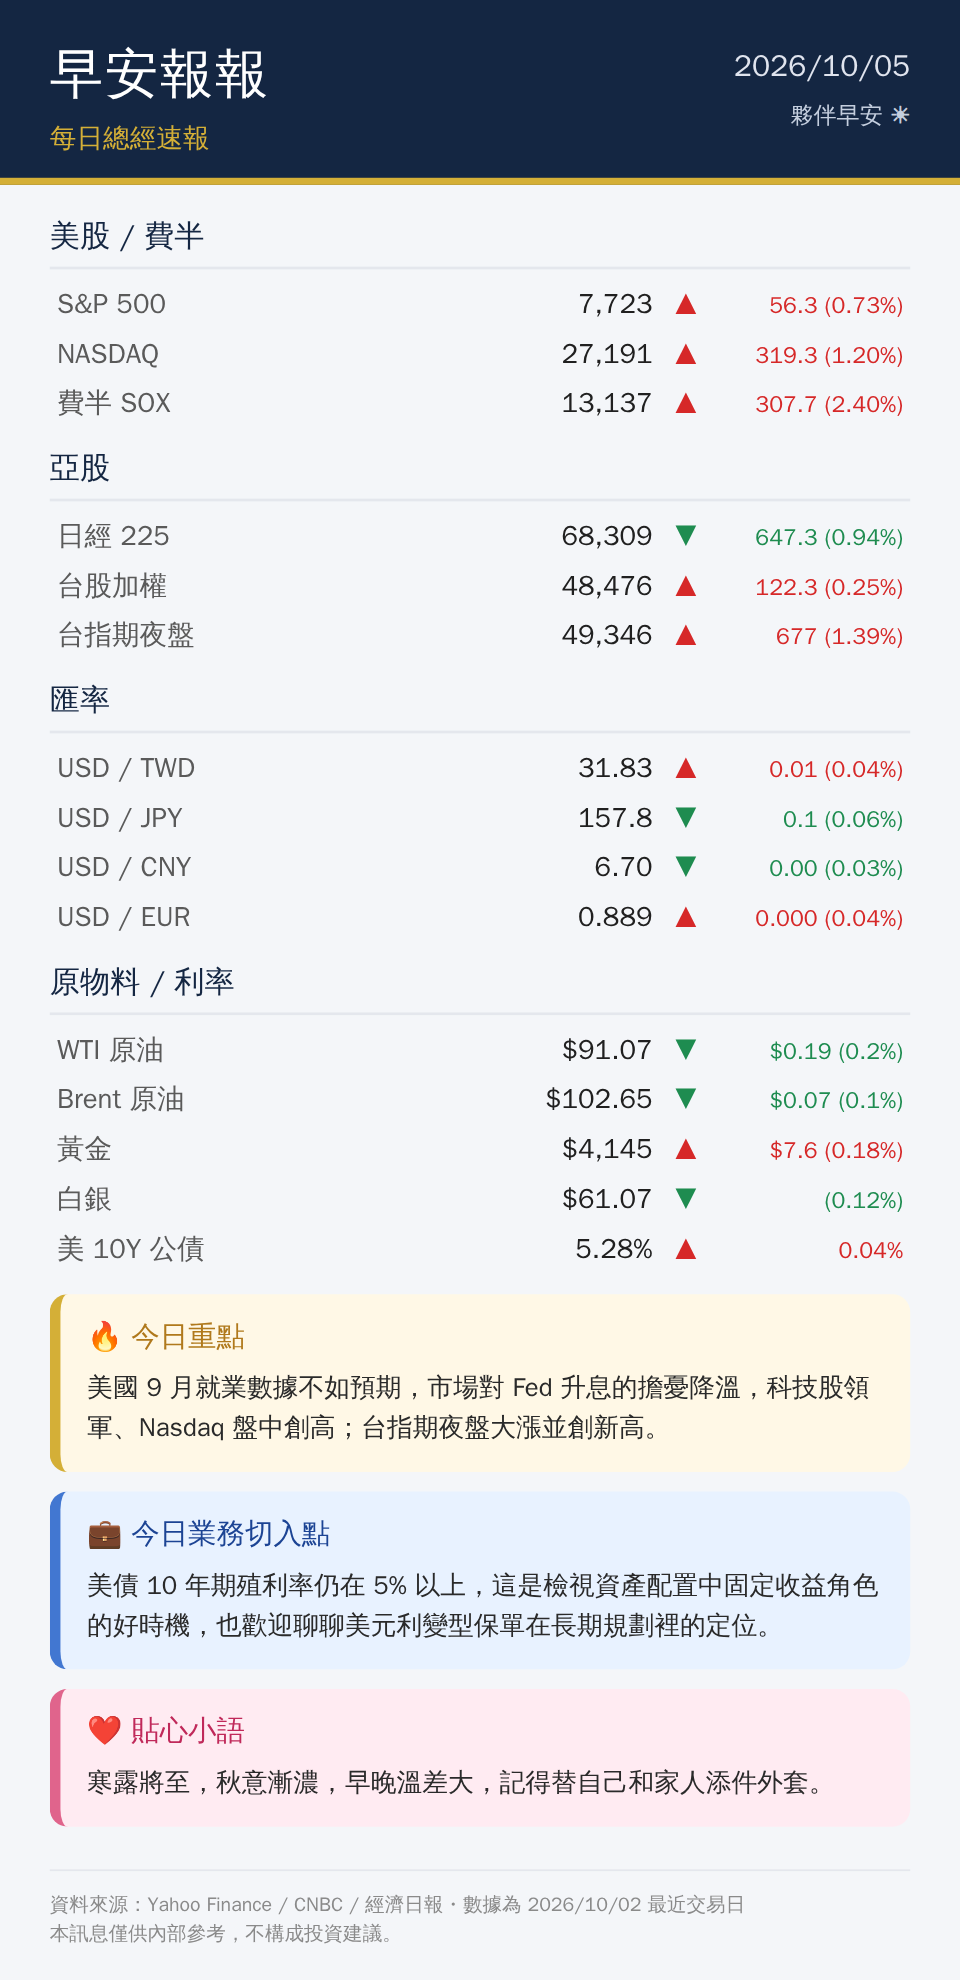
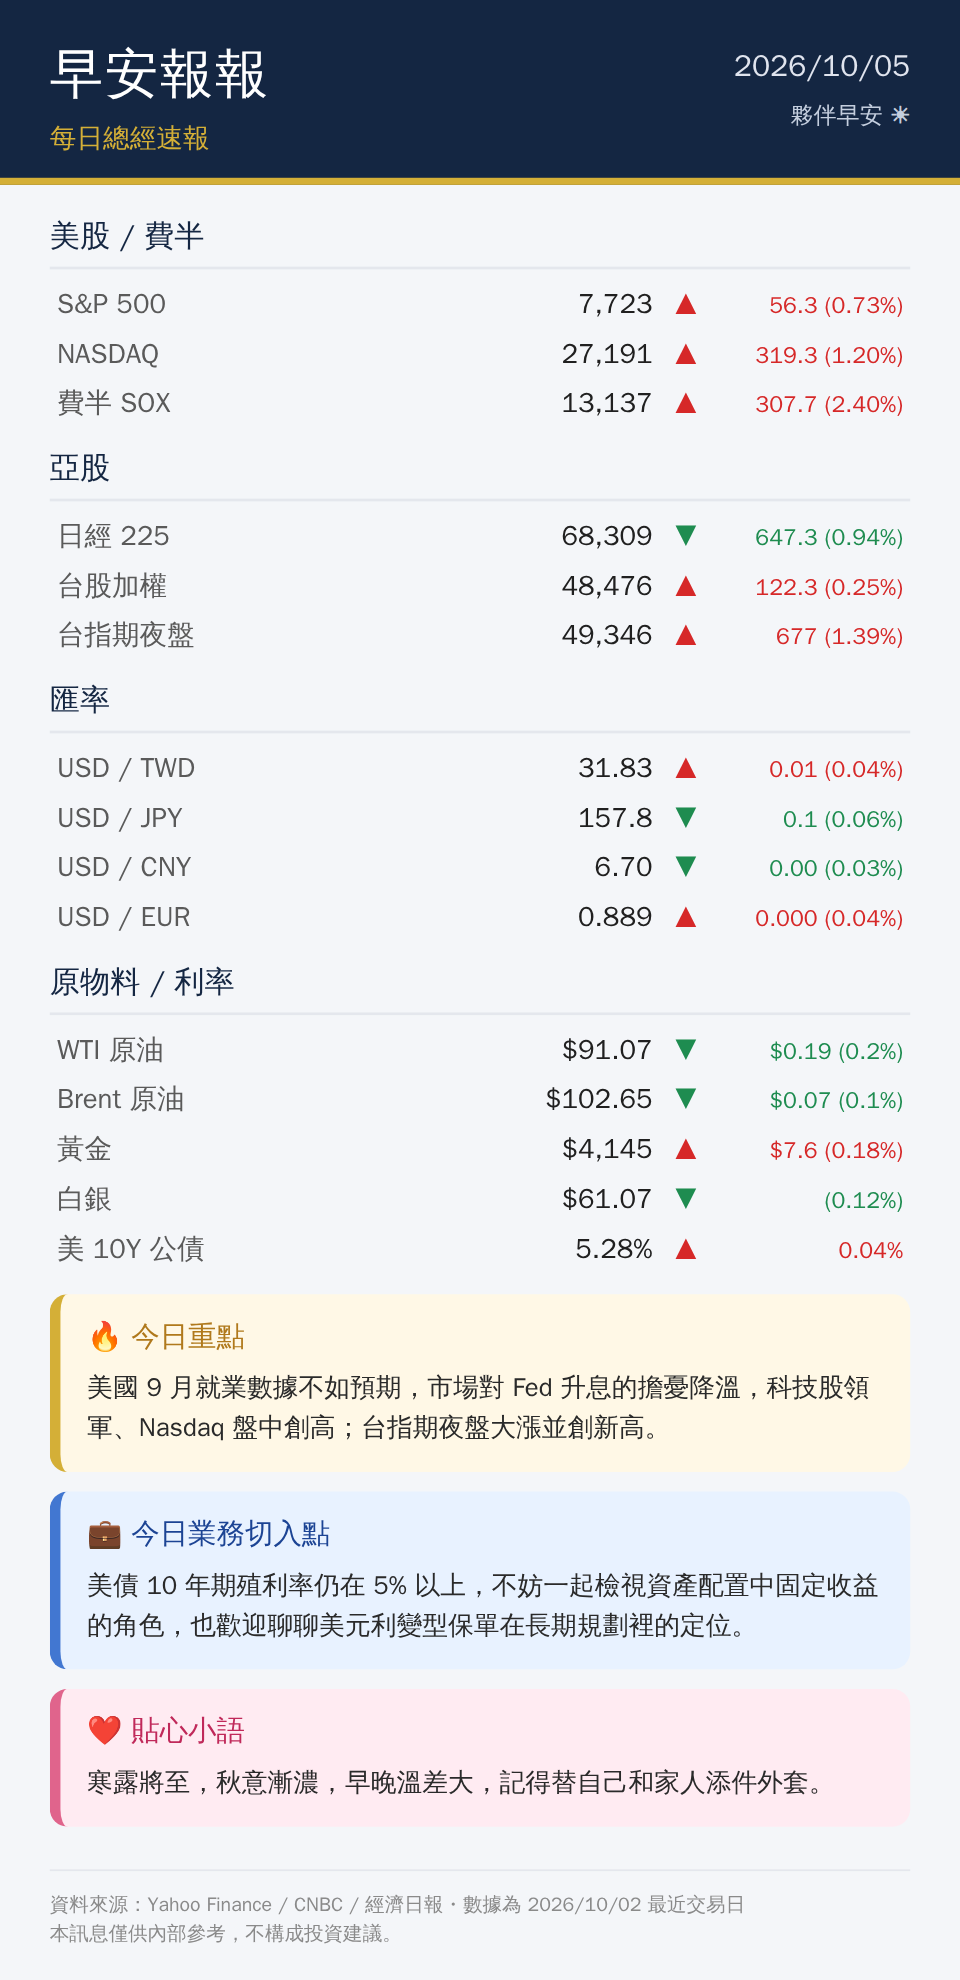
Refine business angle wording 2026-10-05
Claude-Session: https://claude.ai/code/session_01KgwL3zWtgwQcRyshWvawGz

Changed region(s): [[0.3438, 0.7702, 0.9062, 0.8318], [0.125, 0.801, 0.3125, 0.8318]]

diff --git a/reports/2026-10-05/card.html b/reports/2026-10-05/card.html
@@ -43,6 +43,6 @@
     <div class="brand-sub">每日總經速報</div>
     <div class="hdr-right"><div class="hdr-date">2026/10/05</div><div class="hdr-hi">夥伴早安 ☀</div></div>
   </div>
-  <div class="body"><div class="sec"><div class="sec-title">美股 / 費半</div><div class="row"><span class="label">S&amp;P 500</span><span class="val">7,723</span><span class="arr" style="color:#d62828">▲</span><span class="pct" style="color:#d62828">56.3 (0.73%)</span></div><div class="row"><span class="label">NASDAQ</span><span class="val">27,191</span><span class="arr" style="color:#d62828">▲</span><span class="pct" style="color:#d62828">319.3 (1.20%)</span></div><div class="row"><span class="label">費半 SOX</span><span class="val">13,137</span><span class="arr" style="color:#d62828">▲</span><span class="pct" style="color:#d62828">307.7 (2.40%)</span></div></div><div class="sec"><div class="sec-title">亞股</div><div class="row"><span class="label">日經 225</span><span class="val">68,309</span><span class="arr" style="color:#1e8c50">▼</span><span class="pct" style="color:#1e8c50">647.3 (0.94%)</span></div><div class="row"><span class="label">台股加權</span><span class="val">48,476</span><span class="arr" style="color:#d62828">▲</span><span class="pct" style="color:#d62828">122.3 (0.25%)</span></div><div class="row"><span class="label">台指期夜盤</span><span class="val">49,346</span><span class="arr" style="color:#d62828">▲</span><span class="pct" style="color:#d62828">677 (1.39%)</span></div></div><div class="sec"><div class="sec-title">匯率</div><div class="row"><span class="label">USD / TWD</span><span class="val">31.83</span><span class="arr" style="color:#d62828">▲</span><span class="pct" style="color:#d62828">0.01 (0.04%)</span></div><div class="row"><span class="label">USD / JPY</span><span class="val">157.8</span><span class="arr" style="color:#1e8c50">▼</span><span class="pct" style="color:#1e8c50">0.1 (0.06%)</span></div><div class="row"><span class="label">USD / CNY</span><span class="val">6.70</span><span class="arr" style="color:#1e8c50">▼</span><span class="pct" style="color:#1e8c50">0.00 (0.03%)</span></div><div class="row"><span class="label">USD / EUR</span><span class="val">0.889</span><span class="arr" style="color:#d62828">▲</span><span class="pct" style="color:#d62828">0.000 (0.04%)</span></div></div><div class="sec"><div class="sec-title">原物料 / 利率</div><div class="row"><span class="label">WTI 原油</span><span class="val">$91.07</span><span class="arr" style="color:#1e8c50">▼</span><span class="pct" style="color:#1e8c50">$0.19 (0.2%)</span></div><div class="row"><span class="label">Brent 原油</span><span class="val">$102.65</span><span class="arr" style="color:#1e8c50">▼</span><span class="pct" style="color:#1e8c50">$0.07 (0.1%)</span></div><div class="row"><span class="label">黃金</span><span class="val">$4,145</span><span class="arr" style="color:#d62828">▲</span><span class="pct" style="color:#d62828">$7.6 (0.18%)</span></div><div class="row"><span class="label">白銀</span><span class="val">$61.07</span><span class="arr" style="color:#1e8c50">▼</span><span class="pct" style="color:#1e8c50">(0.12%)</span></div><div class="row"><span class="label">美 10Y 公債</span><span class="val">5.28%</span><span class="arr" style="color:#d62828">▲</span><span class="pct" style="color:#d62828">0.04%</span></div></div><div class="box box-gold"><div class="box-title">🔥 今日重點</div><div class="box-body">美國 9 月就業數據不如預期，市場對 Fed 升息的擔憂降溫，科技股領軍、Nasdaq 盤中創高；台指期夜盤大漲並創新高。</div></div><div class="box box-blue"><div class="box-title">💼 今日業務切入點</div><div class="box-body">美債 10 年期殖利率仍在 5% 以上，這是檢視資產配置中固定收益角色的好時機，也歡迎聊聊美元利變型保單在長期規劃裡的定位。</div></div><div class="box box-pink"><div class="box-title">❤ 貼心小語</div><div class="box-body">寒露將至，秋意漸濃，早晚溫差大，記得替自己和家人添件外套。</div></div></div>
+  <div class="body"><div class="sec"><div class="sec-title">美股 / 費半</div><div class="row"><span class="label">S&amp;P 500</span><span class="val">7,723</span><span class="arr" style="color:#d62828">▲</span><span class="pct" style="color:#d62828">56.3 (0.73%)</span></div><div class="row"><span class="label">NASDAQ</span><span class="val">27,191</span><span class="arr" style="color:#d62828">▲</span><span class="pct" style="color:#d62828">319.3 (1.20%)</span></div><div class="row"><span class="label">費半 SOX</span><span class="val">13,137</span><span class="arr" style="color:#d62828">▲</span><span class="pct" style="color:#d62828">307.7 (2.40%)</span></div></div><div class="sec"><div class="sec-title">亞股</div><div class="row"><span class="label">日經 225</span><span class="val">68,309</span><span class="arr" style="color:#1e8c50">▼</span><span class="pct" style="color:#1e8c50">647.3 (0.94%)</span></div><div class="row"><span class="label">台股加權</span><span class="val">48,476</span><span class="arr" style="color:#d62828">▲</span><span class="pct" style="color:#d62828">122.3 (0.25%)</span></div><div class="row"><span class="label">台指期夜盤</span><span class="val">49,346</span><span class="arr" style="color:#d62828">▲</span><span class="pct" style="color:#d62828">677 (1.39%)</span></div></div><div class="sec"><div class="sec-title">匯率</div><div class="row"><span class="label">USD / TWD</span><span class="val">31.83</span><span class="arr" style="color:#d62828">▲</span><span class="pct" style="color:#d62828">0.01 (0.04%)</span></div><div class="row"><span class="label">USD / JPY</span><span class="val">157.8</span><span class="arr" style="color:#1e8c50">▼</span><span class="pct" style="color:#1e8c50">0.1 (0.06%)</span></div><div class="row"><span class="label">USD / CNY</span><span class="val">6.70</span><span class="arr" style="color:#1e8c50">▼</span><span class="pct" style="color:#1e8c50">0.00 (0.03%)</span></div><div class="row"><span class="label">USD / EUR</span><span class="val">0.889</span><span class="arr" style="color:#d62828">▲</span><span class="pct" style="color:#d62828">0.000 (0.04%)</span></div></div><div class="sec"><div class="sec-title">原物料 / 利率</div><div class="row"><span class="label">WTI 原油</span><span class="val">$91.07</span><span class="arr" style="color:#1e8c50">▼</span><span class="pct" style="color:#1e8c50">$0.19 (0.2%)</span></div><div class="row"><span class="label">Brent 原油</span><span class="val">$102.65</span><span class="arr" style="color:#1e8c50">▼</span><span class="pct" style="color:#1e8c50">$0.07 (0.1%)</span></div><div class="row"><span class="label">黃金</span><span class="val">$4,145</span><span class="arr" style="color:#d62828">▲</span><span class="pct" style="color:#d62828">$7.6 (0.18%)</span></div><div class="row"><span class="label">白銀</span><span class="val">$61.07</span><span class="arr" style="color:#1e8c50">▼</span><span class="pct" style="color:#1e8c50">(0.12%)</span></div><div class="row"><span class="label">美 10Y 公債</span><span class="val">5.28%</span><span class="arr" style="color:#d62828">▲</span><span class="pct" style="color:#d62828">0.04%</span></div></div><div class="box box-gold"><div class="box-title">🔥 今日重點</div><div class="box-body">美國 9 月就業數據不如預期，市場對 Fed 升息的擔憂降溫，科技股領軍、Nasdaq 盤中創高；台指期夜盤大漲並創新高。</div></div><div class="box box-blue"><div class="box-title">💼 今日業務切入點</div><div class="box-body">美債 10 年期殖利率仍在 5% 以上，不妨一起檢視資產配置中固定收益的角色，也歡迎聊聊美元利變型保單在長期規劃裡的定位。</div></div><div class="box box-pink"><div class="box-title">❤ 貼心小語</div><div class="box-body">寒露將至，秋意漸濃，早晚溫差大，記得替自己和家人添件外套。</div></div></div>
   <div class="foot">資料來源：Yahoo Finance / CNBC / 經濟日報・數據為 2026/10/02 最近交易日<br>本訊息僅供內部參考，不構成投資建議。</div>
 </div></body></html>
